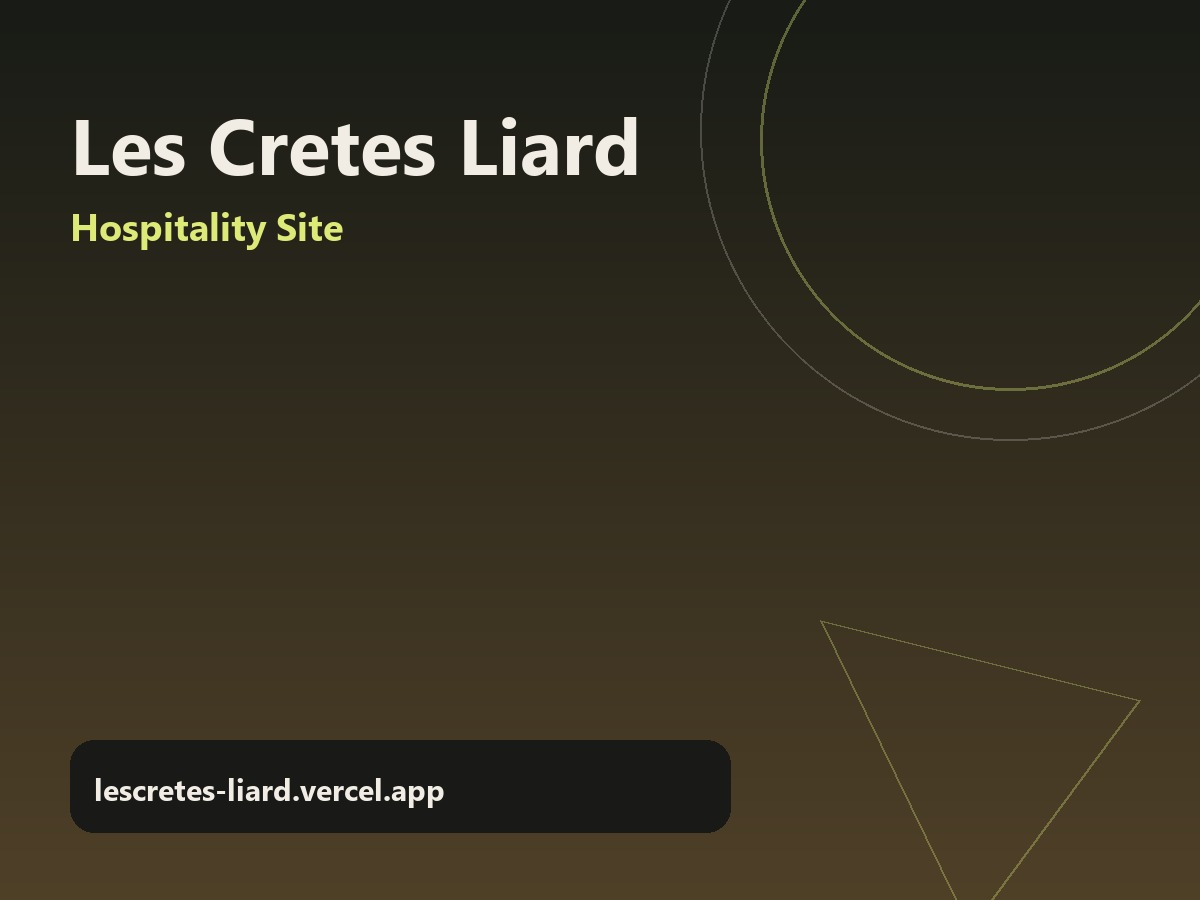
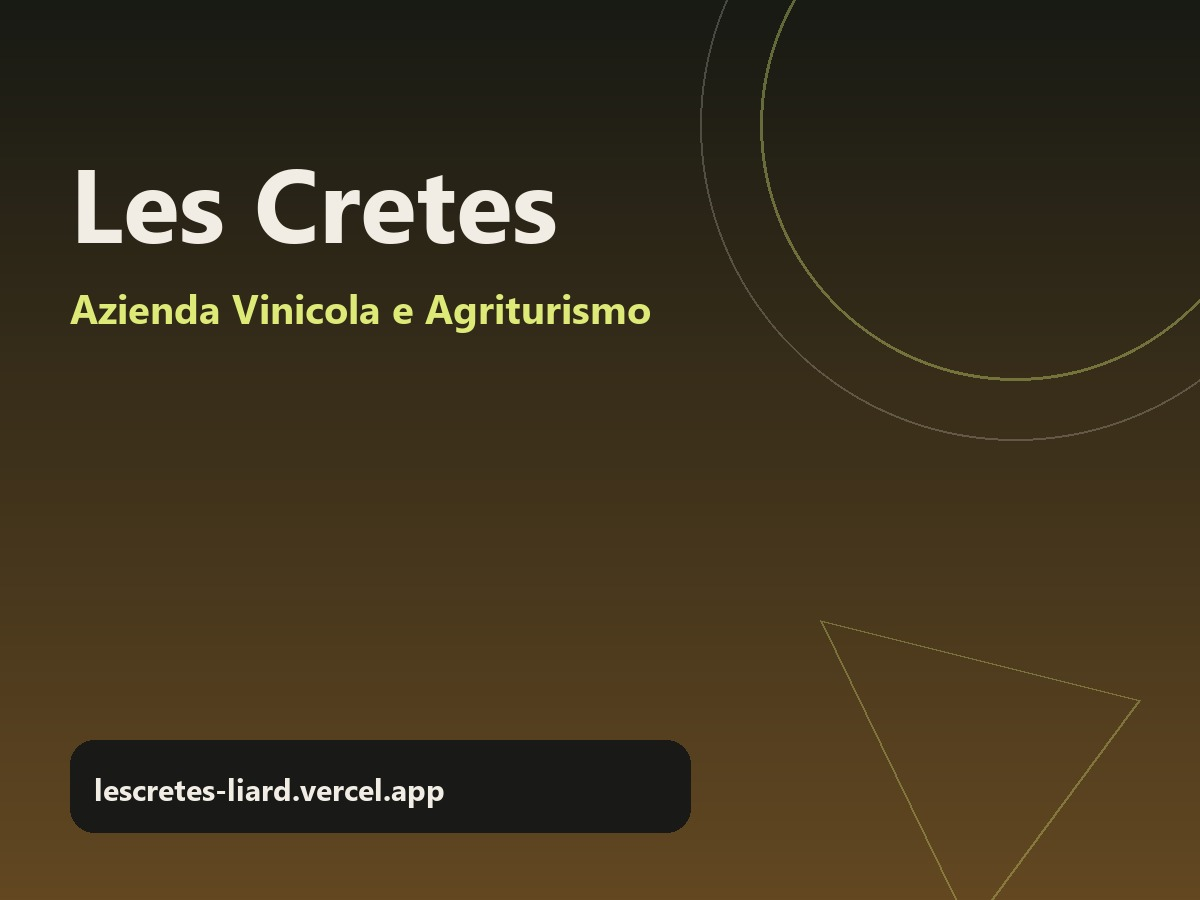
aggiornamento sito

diff --git a/index.html b/index.html
@@ -679,11 +679,11 @@
                 />
               </div>
               <h3 class="font-heading font-extrabold text-2xl mb-4">
-                Les Cretes Liard
+                Les Cr&ecirc;tes - Azienda Vinicola
               </h3>
               <p class="text-white/70 text-sm mb-6">
-                Esperienza digitale per hospitality con layout editoriale e CTA
-                orientate alla prenotazione.
+                Progetto wine-focused con identit&agrave; territoriale,
+                storytelling e valorizzazione del brand enologico.
               </p>
               <div
                 class="mt-auto flex items-center gap-2 text-volt font-bold text-xs uppercase tracking-widest"
@@ -723,11 +723,11 @@
                 />
               </div>
               <h3 class="font-heading font-extrabold text-2xl mb-4">
-                Segarelli
+                Segarelli - Agriturismo e Hospitality
               </h3>
               <p class="text-white/70 text-sm mb-6">
-                Sito brand-focused con linguaggio visivo deciso e navigazione
-                essenziale.
+                Esperienza digitale orientata all'ospitalit&agrave;, con focus
+                su accoglienza, servizi e conversione prenotazioni.
               </p>
               <div
                 class="mt-auto flex items-center gap-2 text-volt font-bold text-xs uppercase tracking-widest"
